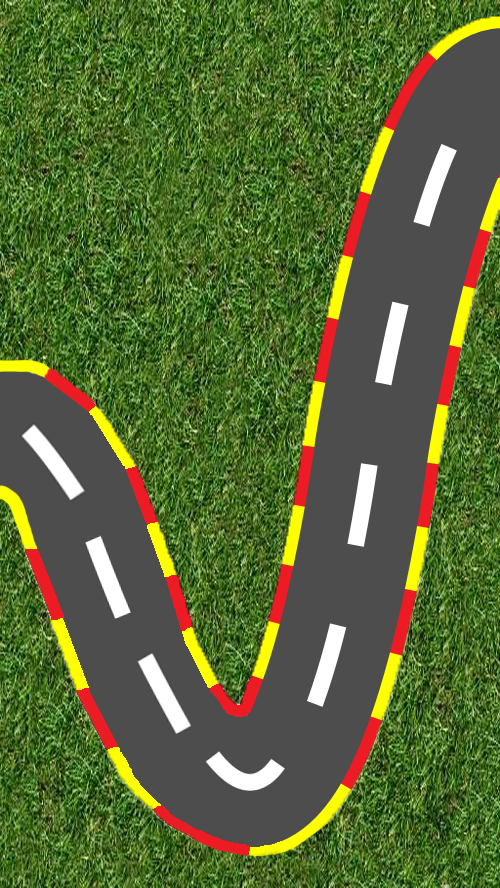
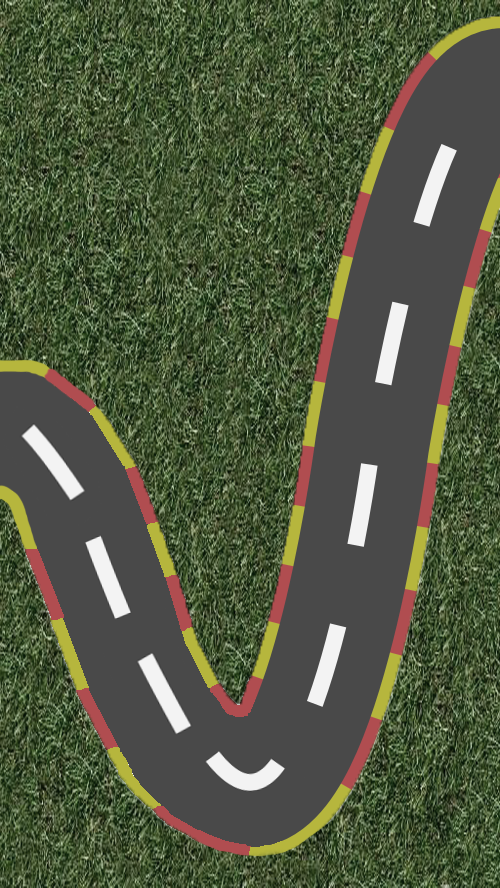
Fixed images so gaze is priority

diff --git a/VertigoApp/game/game.js b/VertigoApp/game/game.js
@@ -10,6 +10,7 @@ import { Road2 } from "./join";
 import { Road1 } from "./straight";
 import { MoveCar, MoveRoad,Physics } from "./Movement"
 import { RNCamera } from 'react-native-camera';
+import bgImage from "./grass.jpg"
 
 const { width, height } = Dimensions.get("window");
 coinYbuffer = 420;
@@ -138,6 +139,7 @@ getAngle = () => {
 
    render() {
          return (
+
              <View style={styles.container}>
              <RNCamera
                                 ref={ref => {
